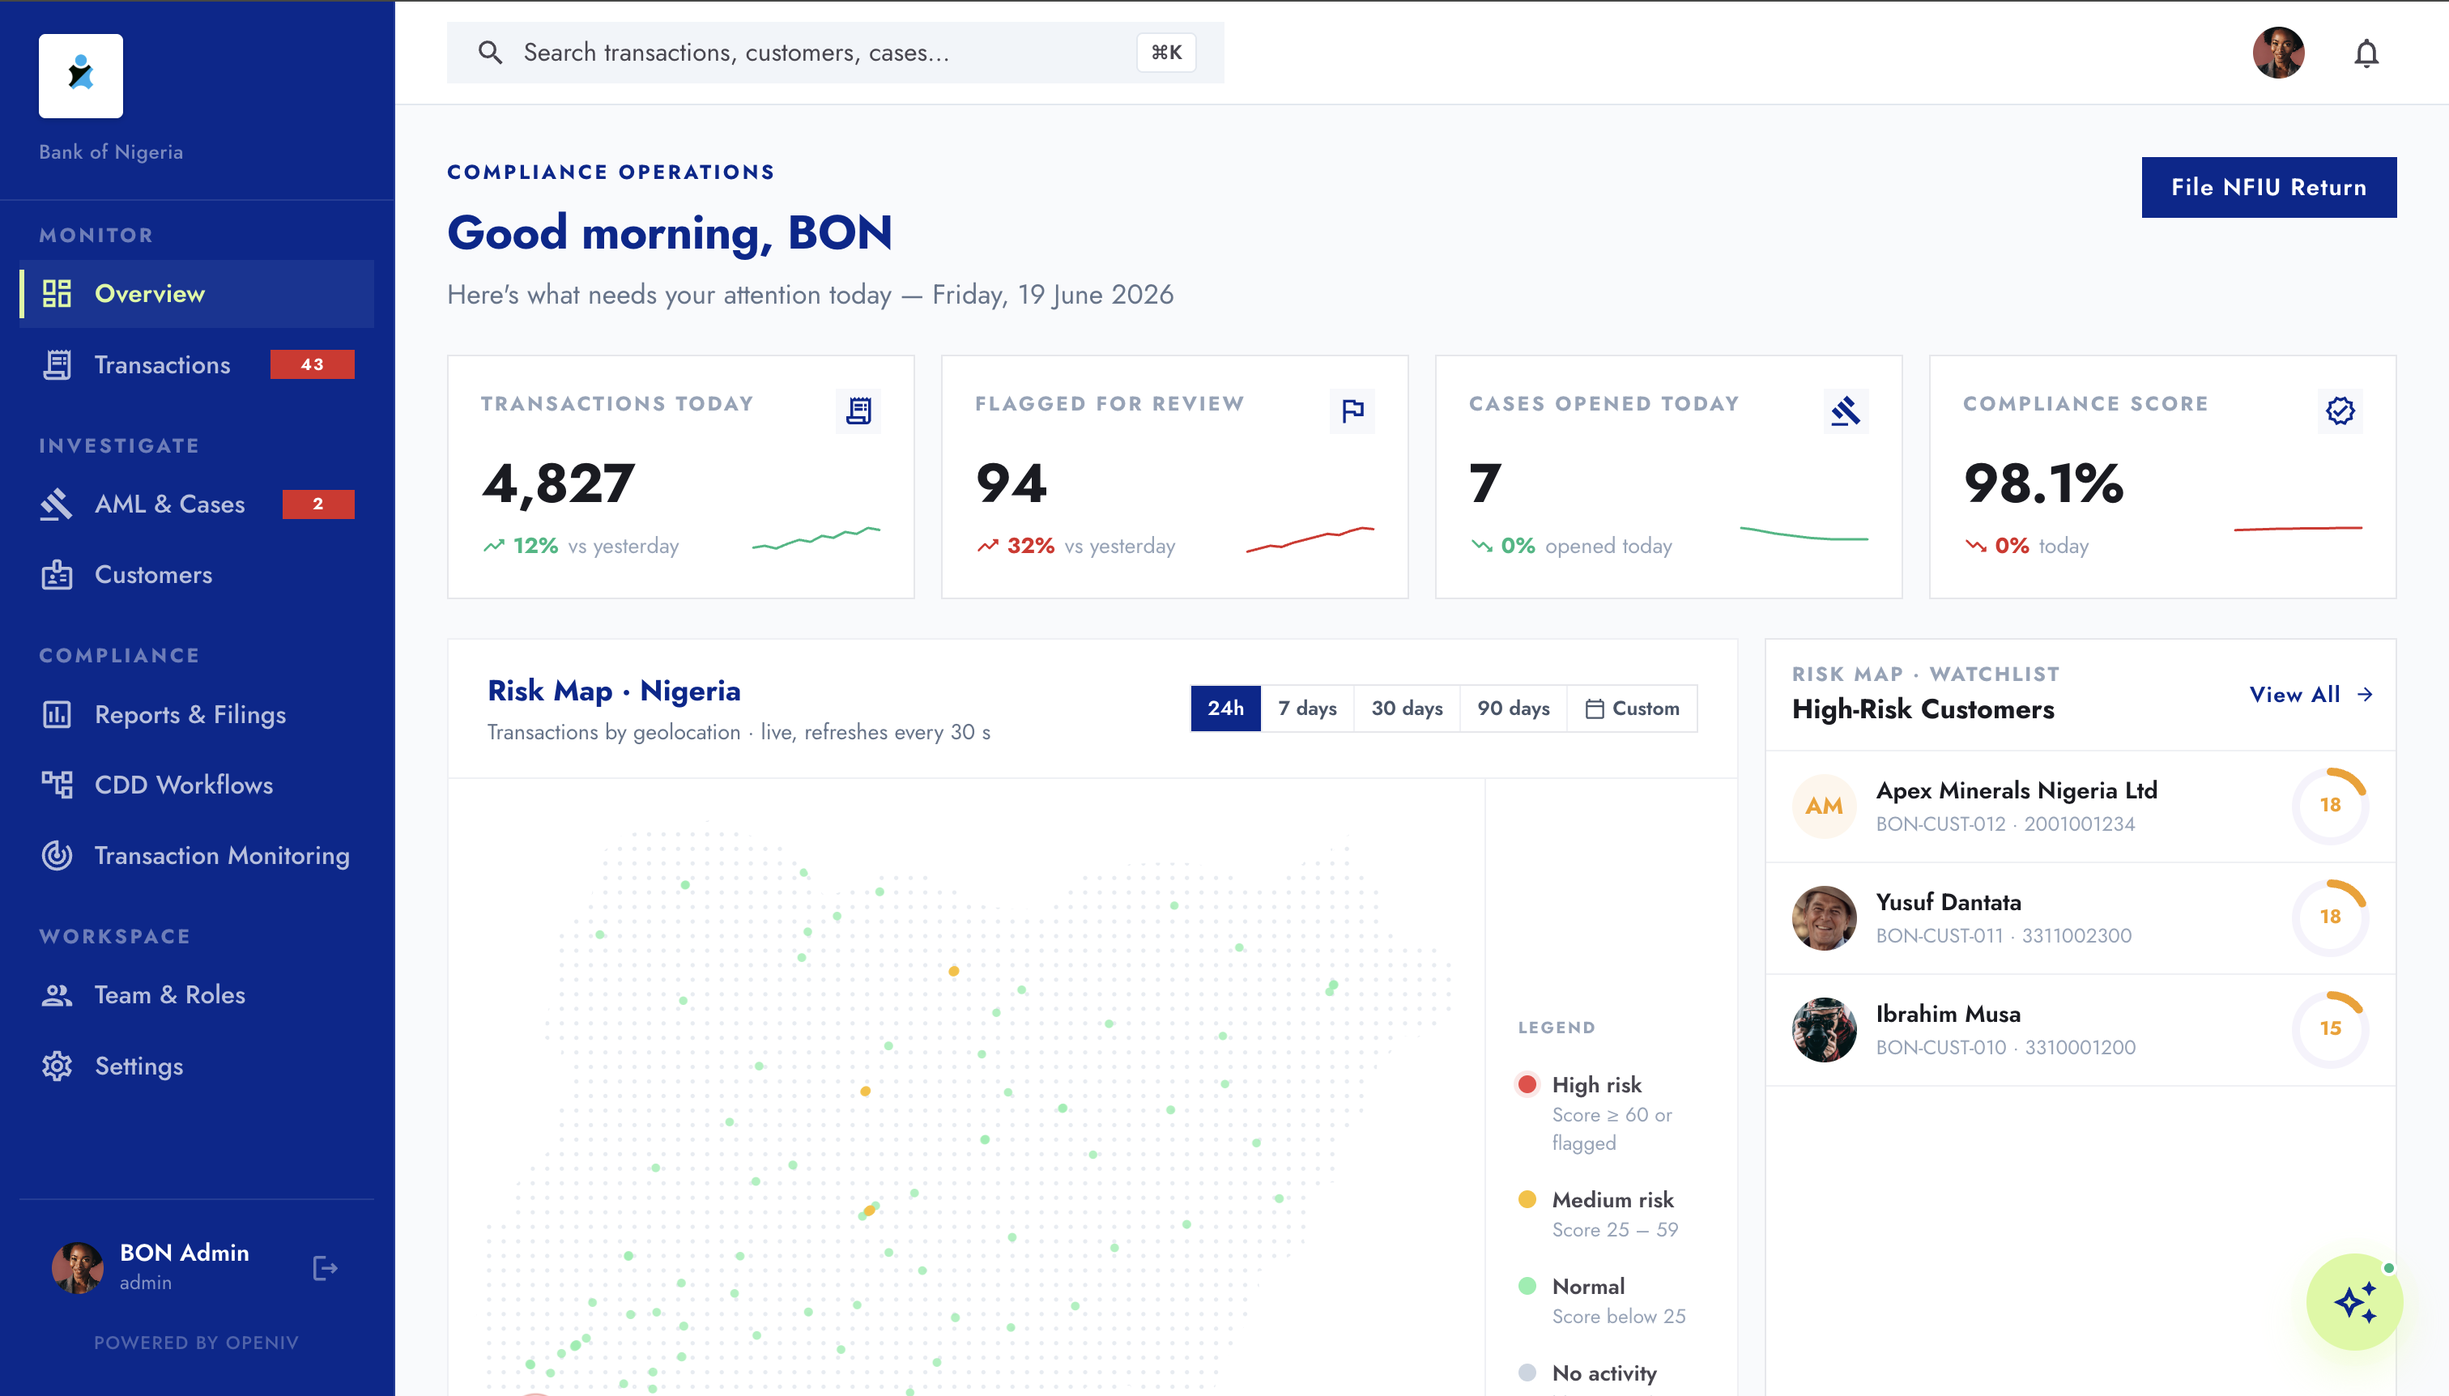
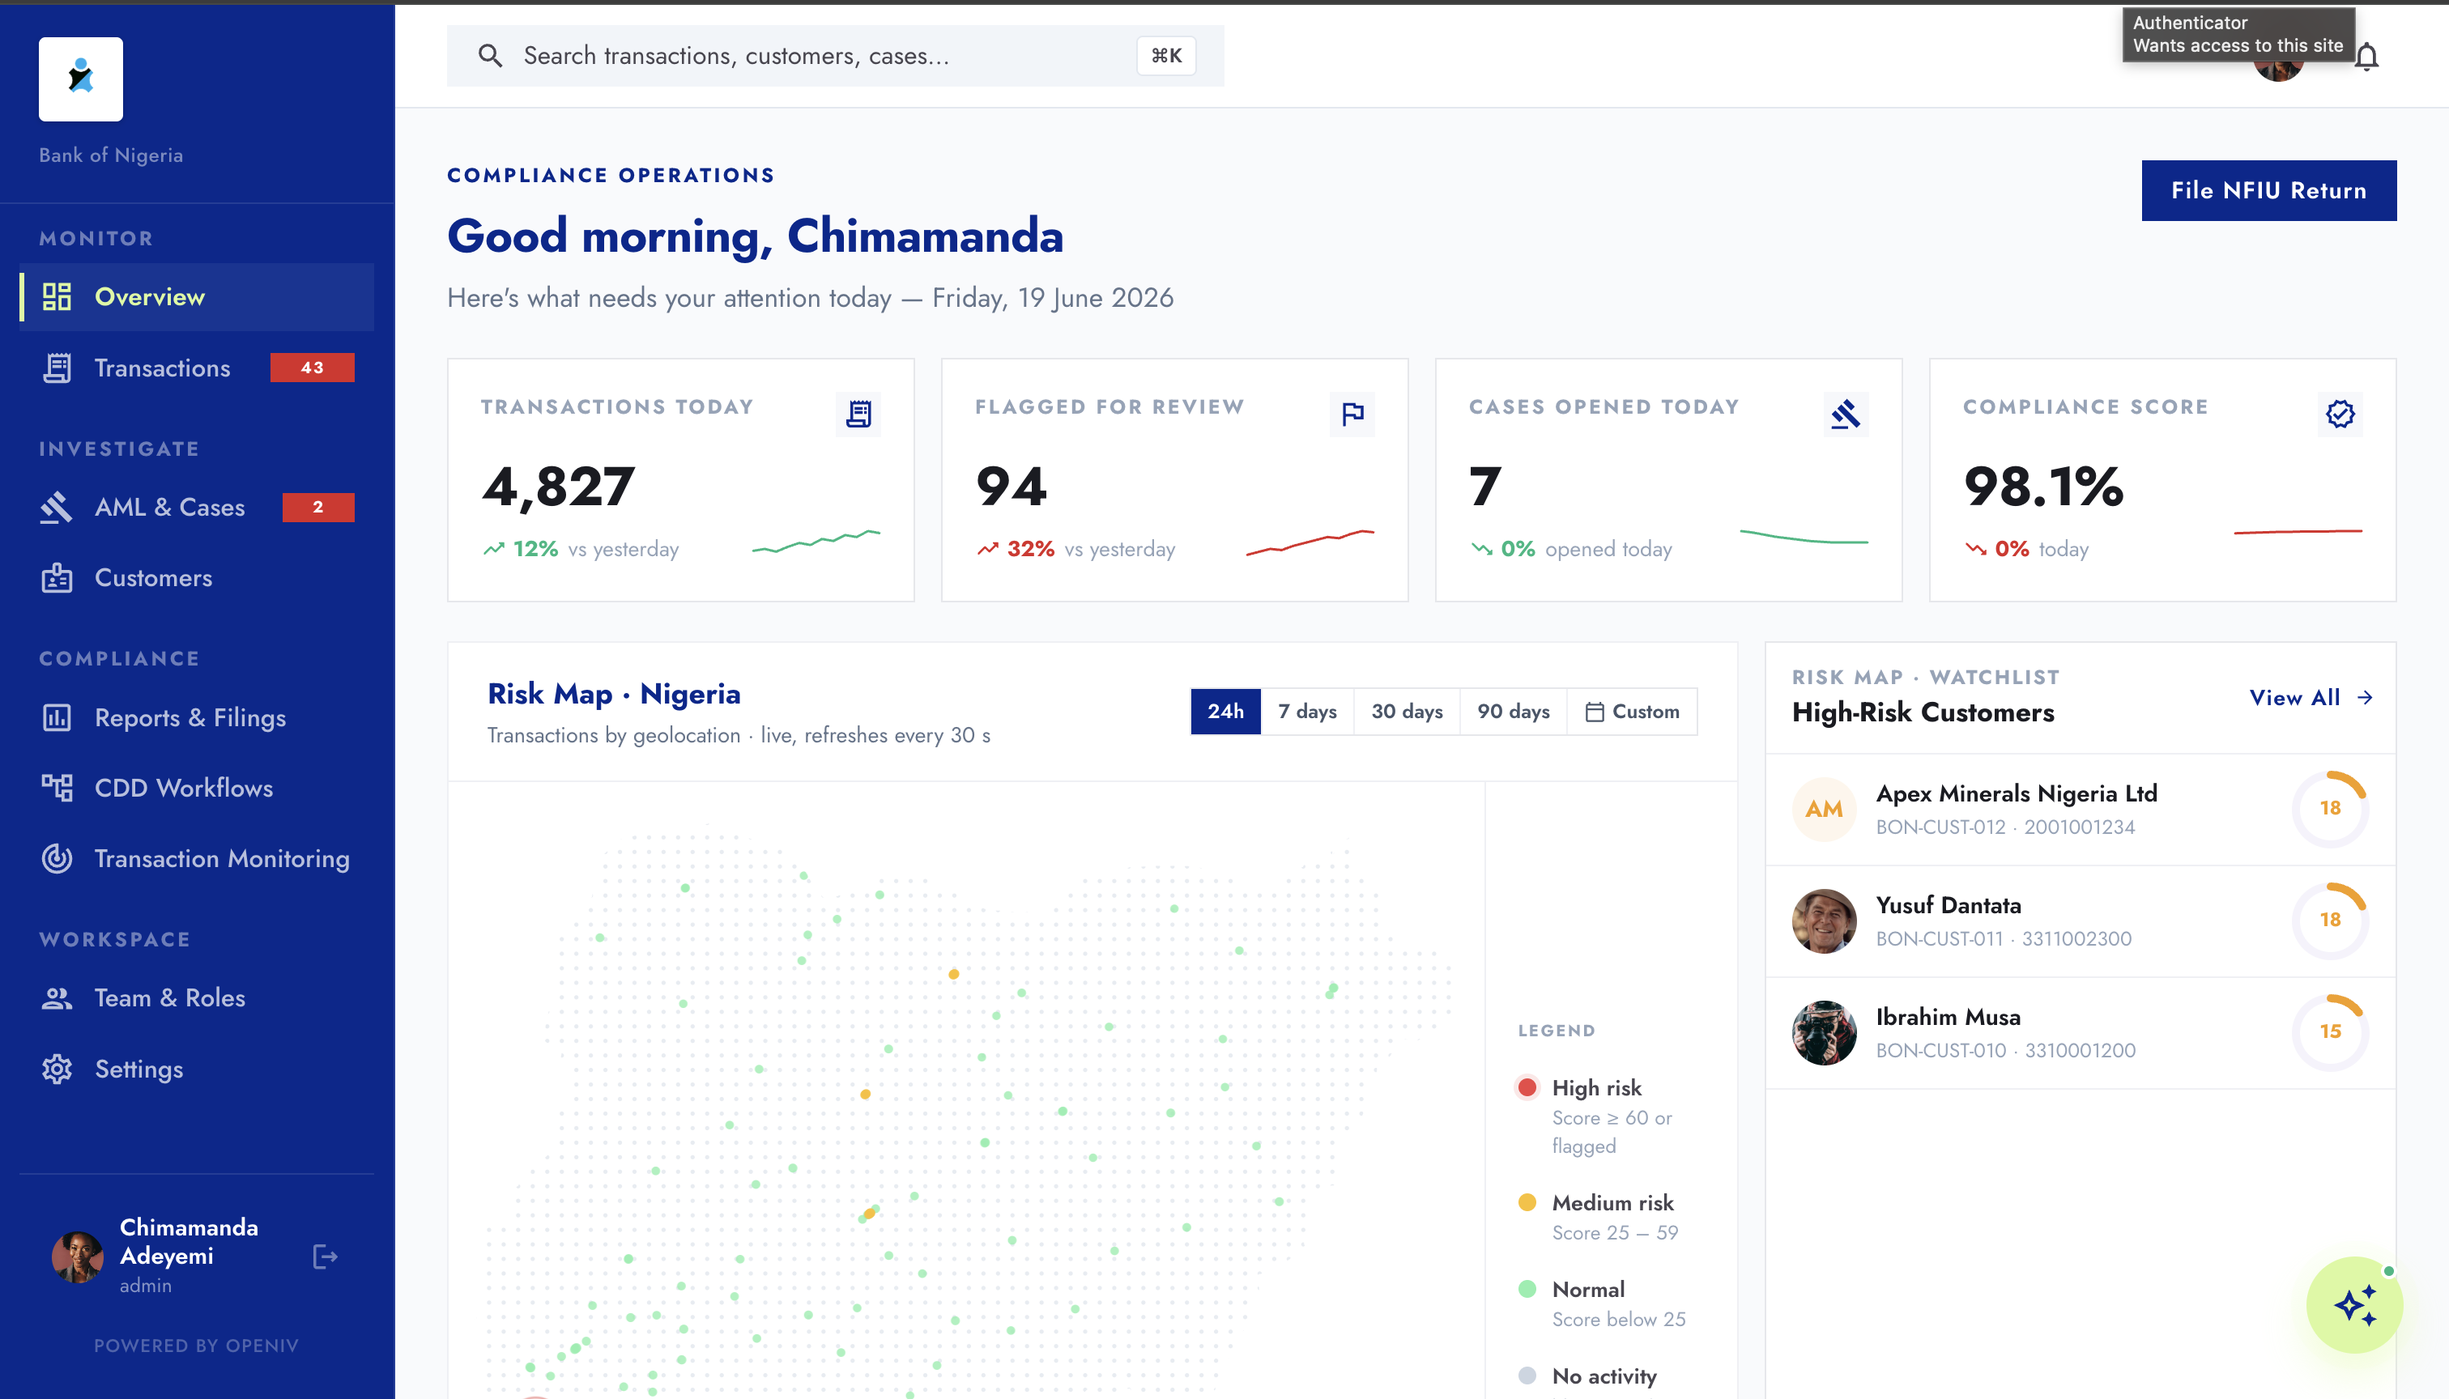
auth login modification

diff --git a/src/pages/auth/LoginPage.tsx b/src/pages/auth/LoginPage.tsx
@@ -16,6 +16,7 @@ import {
   getInviteEmail,
   getLoginAvatar,
   getLoginEmail,
+  getLoginName,
   hydrate,
   setLoginAvatar,
   setLoginEmail,
@@ -491,10 +492,17 @@ function BiometricPrompt({
   return (
     <Box sx={{ width: '100%' }}>
       {/* Institution logo / mark */}
-      <Box sx={{ display: 'flex', justifyContent: 'center', mb: 3 }}>
+      <Box sx={{ display: 'flex', flexDirection: 'column', alignItems: 'center', mb: 3, gap: 1 }}>
         {institutionLogoUrl ? (
-          <Box component="img" src={institutionLogoUrl} alt={institutionName ?? ''}
-            sx={{ height: 52, maxWidth: 180, objectFit: 'contain', display: 'block' }} />
+          <>
+            <Box component="img" src={institutionLogoUrl} alt={institutionName ?? ''}
+              sx={{ height: 52, maxWidth: 180, objectFit: 'contain', display: 'block' }} />
+            {institutionName && (
+              <Typography sx={{ fontFamily: 'Jost', fontWeight: 700, fontSize: '0.9375rem', color: 'var(--heading-color)', letterSpacing: '-0.01em' }}>
+                {institutionName}
+              </Typography>
+            )}
+          </>
         ) : (
           <Box sx={{ display: 'flex', alignItems: 'center', gap: 1.25 }}>
             <Box sx={{ width: 40, height: 40, bgcolor: colorPalette.primary,
@@ -518,14 +526,17 @@ function BiometricPrompt({
         <Box sx={{ width: 30, height: 30, borderRadius: '50%', bgcolor: colorPalette.primary,
           display: 'flex', alignItems: 'center', justifyContent: 'center', flexShrink: 0, overflow: 'hidden' }}>
           {avatarUrl
-            ? <Box component="img" src={avatarUrl} alt="" sx={{ width: '100%', height: '100%', objectFit: 'cover' }} />
+            ? <Box component="img" src={avatarUrl} alt=""
+                sx={{ width: '100%', height: '100%', objectFit: 'cover' }}
+                onError={(e) => { (e.currentTarget as HTMLImageElement).style.display = 'none' }}
+              />
             : <Typography sx={{ fontSize: '0.6875rem', fontWeight: 700, color: '#fff', lineHeight: 1 }}>
-                {(userName ?? email).slice(0, 2).toUpperCase()}
+                {(userName ?? email).split(' ').filter(Boolean).slice(0, 2).map((w: string) => w[0].toUpperCase()).join('')}
               </Typography>
           }
         </Box>
         <Typography sx={{ fontSize: '0.875rem', color: 'var(--on-surface-variant)',
-          fontFamily: 'Jost', fontWeight: 500, flex: 1, overflow: 'hidden',
+          fontFamily: 'Jost', fontWeight: 600, flex: 1, overflow: 'hidden',
           textOverflow: 'ellipsis', whiteSpace: 'nowrap' }}>
           {userName ?? email}
         </Typography>
@@ -602,18 +613,20 @@ export default function LoginPage() {
     hydrate().then(() => {
       setInviteCodeState(getInviteCode())
       setInviteEmailState(getInviteEmail())
-      // Read avatar after hydrate so encrypted cache is populated
+      // Read avatar + name after hydrate so encrypted cache is populated
       const av = getLoginAvatar(); if (av) setBioAvatarUrl(av)
+      const n  = getLoginName();   if (n)  setBioUserName(prev => prev ?? n)
     })
     // Check if this browser has a registered biometric for a known email
     if (webAuthnSupported()) {
       try {
         const raw = localStorage.getItem('openiv.bioHint')
         if (raw) {
-          const hint = JSON.parse(raw) as { email: string; userName?: string; institutionName?: string; institutionLogoUrl?: string }
+          const hint = JSON.parse(raw) as { email: string; userName?: string; avatarUrl?: string; institutionName?: string; institutionLogoUrl?: string }
           if (hint.email) {
             setBioEmail(hint.email)
             setBioUserName(hint.userName ?? null)
+            if (hint.avatarUrl) setBioAvatarUrl(hint.avatarUrl)
             setBioInstitutionName(hint.institutionName ?? null)
             setBioInstitutionLogo(hint.institutionLogoUrl ?? null)
           }
@@ -628,6 +641,8 @@ export default function LoginPage() {
     authApi.institutionHint(bioEmail).then(hint => {
       if (hint.institutionName)    setBioInstitutionName(hint.institutionName)
       if (hint.institutionLogoUrl) setBioInstitutionLogo(hint.institutionLogoUrl)
+      if (hint.displayName)        setBioUserName(hint.displayName)
+      if (hint.avatarUrl)          setBioAvatarUrl(hint.avatarUrl)
     }).catch(() => { /* silently ignore — cached values still show */ })
   }, [bioEmail])
 
@@ -735,8 +750,9 @@ export default function LoginPage() {
         localStorage.setItem('openiv.bioHint', JSON.stringify({
           ...existing,
           email,
-          userName: fullName ?? existing.userName ?? null,
-          institutionName: institutionName ?? existing.institutionName ?? null,
+          userName:           fullName         ?? existing.userName           ?? null,
+          avatarUrl:          avatarUrl         ?? existing.avatarUrl          ?? null,
+          institutionName:    institutionName   ?? existing.institutionName    ?? null,
           institutionLogoUrl: institutionLogoUrl ?? existing.institutionLogoUrl ?? null,
         }))
       } catch { /* ignore */ }

diff --git a/src/pages/dashboard/ProfilePage.tsx b/src/pages/dashboard/ProfilePage.tsx
@@ -4,6 +4,7 @@ import { useState, useRef } from 'react'
 import { useProfile } from '@/contexts/ProfileContext'
 import { profileApi } from '@/api/profile'
 import { resolveMediaUrl } from '@/api/client'
+import { setLoginAvatar, setLoginName } from '@/onboarding/state'
 import VisibilityOutlinedIcon from '@mui/icons-material/VisibilityOutlined'
 import VisibilityOffOutlinedIcon from '@mui/icons-material/VisibilityOffOutlined'
 import CameraAltOutlinedIcon from '@mui/icons-material/CameraAltOutlined'
@@ -94,7 +95,7 @@ function MetaItem({ icon, label, value }: { icon: React.ReactNode; label: string
 }
 
 export default function ProfilePage() {
-  const { profile, refreshProfile } = useProfile()
+  const { profile, refreshProfile, updateProfile } = useProfile()
   const fileInputRef = useRef<HTMLInputElement>(null)
 
   // ── Personal info ─────────────────────────────────────────────────────────
@@ -110,6 +111,7 @@ export default function ProfilePage() {
     setInfoSaving(true); setInfoMsg(null)
     try {
       await profileApi.update({ fullName: fullName.trim() || undefined, jobTitle: jobTitle.trim() || undefined })
+      if (fullName.trim()) await setLoginName(fullName.trim())
       refreshProfile()
       setInfoMsg({ ok: true, text: 'Profile updated successfully.' })
     } catch {
@@ -132,7 +134,18 @@ export default function ProfilePage() {
     const preview = URL.createObjectURL(file)
     setLocalAvatarUrl(preview)
     try {
-      await profileApi.uploadAvatar(file)
+      const result = await profileApi.uploadAvatar(file)
+      updateProfile({ avatarUrl: result.avatarUrl })
+      setLocalAvatarUrl(result.avatarUrl)
+      // Keep login cache in sync so the biometric login page shows the new photo
+      await setLoginAvatar(result.avatarUrl)
+      try {
+        const raw = localStorage.getItem('openiv.bioHint')
+        if (raw) {
+          const hint = JSON.parse(raw)
+          localStorage.setItem('openiv.bioHint', JSON.stringify({ ...hint, avatarUrl: result.avatarUrl }))
+        }
+      } catch { /* ignore */ }
       refreshProfile()
     } catch (err) {
       setAvatarError((err as Error).message ?? 'Upload failed.')

diff --git a/src/components/dashboard/Sidebar.tsx b/src/components/dashboard/Sidebar.tsx
@@ -442,13 +442,15 @@ export default function Sidebar() {
           }}
         >
           <Box sx={{ width: 32, height: 32, borderRadius: '50%', overflow: 'hidden', flexShrink: 0 }}>
-            {resolveMediaUrl(profile?.avatarUrl) ? (
-              <Box component="img" src={resolveMediaUrl(profile?.avatarUrl)!} alt={profile?.fullName ?? ''} sx={{ width: '100%', height: '100%', objectFit: 'cover' }} />
-            ) : (
-              <Box sx={{ width: '100%', height: '100%', bgcolor: '#d9f99d', color: 'var(--heading-color)', display: 'flex', alignItems: 'center', justifyContent: 'center', fontSize: '0.8125rem', fontWeight: 700, fontFamily: 'Jost' }}>
-                {getInitials(profile?.fullName, profile?.email)}
-              </Box>
+            {resolveMediaUrl(profile?.avatarUrl) && (
+              <Box component="img" src={resolveMediaUrl(profile?.avatarUrl)!} alt={profile?.fullName ?? ''}
+                sx={{ width: '100%', height: '100%', objectFit: 'cover' }}
+                onError={(e) => { (e.currentTarget as HTMLImageElement).style.display = 'none'; (e.currentTarget.nextSibling as HTMLElement | null)?.style.setProperty('display', 'flex') }}
+              />
             )}
+            <Box sx={{ width: '100%', height: '100%', bgcolor: '#d9f99d', color: 'var(--heading-color)', display: resolveMediaUrl(profile?.avatarUrl) ? 'none' : 'flex', alignItems: 'center', justifyContent: 'center', fontSize: '0.8125rem', fontWeight: 700, fontFamily: 'Jost' }}>
+              {getInitials(profile?.fullName, profile?.email)}
+            </Box>
           </Box>
           <Box sx={{ flex: 1, minWidth: 0 }}>
             <Typography sx={{ fontSize: '0.8125rem', fontWeight: 600, color: '#ffffff', lineHeight: 1.2 }}>

diff --git a/src/contexts/ProfileContext.tsx b/src/contexts/ProfileContext.tsx
@@ -1,4 +1,4 @@
-import { createContext, useContext, useEffect, useState } from 'react'
+import { createContext, useCallback, useContext, useEffect, useState } from 'react'
 import type { ReactNode } from 'react'
 import { profileApi } from '@/api/profile'
 import type { UserProfile } from '@/api/profile'
@@ -6,20 +6,33 @@ import type { UserProfile } from '@/api/profile'
 interface ProfileContextValue {
   profile: UserProfile | null
   refreshProfile: () => void
+  updateProfile: (partial: Partial<UserProfile>) => void
 }
 
-const ProfileContext = createContext<ProfileContextValue>({ profile: null, refreshProfile: () => {} })
+const ProfileContext = createContext<ProfileContextValue>({
+  profile: null,
+  refreshProfile: () => {},
+  updateProfile: () => {},
+})
 
 export function ProfileProvider({ children }: { children: ReactNode }) {
   const [profile, setProfile] = useState<UserProfile | null>(null)
 
-  const refreshProfile = () => {
+  const refreshProfile = useCallback(() => {
     profileApi.get().then(setProfile).catch(() => {})
-  }
+  }, [])
 
-  useEffect(() => { refreshProfile() }, [])
+  const updateProfile = useCallback((partial: Partial<UserProfile>) => {
+    setProfile(prev => prev ? { ...prev, ...partial } : prev)
+  }, [])
 
-  return <ProfileContext.Provider value={{ profile, refreshProfile }}>{children}</ProfileContext.Provider>
+  useEffect(() => { refreshProfile() }, [refreshProfile])
+
+  return (
+    <ProfileContext.Provider value={{ profile, refreshProfile, updateProfile }}>
+      {children}
+    </ProfileContext.Provider>
+  )
 }
 
 export const useProfile = () => useContext(ProfileContext)

diff --git a/src/components/dashboard/Topbar.tsx b/src/components/dashboard/Topbar.tsx
@@ -239,17 +239,18 @@ export default function Topbar(_props?: Record<string, unknown>) {
               src={resolveMediaUrl((profile as { avatarUrl?: string }).avatarUrl)!}
               alt={profile?.fullName ?? 'Avatar'}
               sx={{ width: '100%', height: '100%', objectFit: 'cover' }}
+              onError={(e) => { (e.currentTarget as HTMLImageElement).style.display = 'none'; (e.currentTarget.nextSibling as HTMLElement | null)?.style.setProperty('display', 'flex') }}
             />
-          ) : (
-            <Box sx={{
-              width: '100%', height: '100%',
-              bgcolor: colorPalette.primary, color: '#ffffff',
-              display: 'flex', alignItems: 'center', justifyContent: 'center',
-              fontSize: '0.75rem', fontWeight: 700, fontFamily: 'Jost',
-            }}>
-              {initials}
-            </Box>
-          )}
+          ) : null}
+          <Box sx={{
+            width: '100%', height: '100%',
+            bgcolor: colorPalette.primary, color: '#ffffff',
+            display: resolveMediaUrl((profile as { avatarUrl?: string } | null)?.avatarUrl) ? 'none' : 'flex',
+            alignItems: 'center', justifyContent: 'center',
+            fontSize: '0.75rem', fontWeight: 700, fontFamily: 'Jost',
+          }}>
+            {initials}
+          </Box>
         </Box>
       </IconButton>
 

diff --git a/src/pages/dashboard/TransactionsPage.tsx b/src/pages/dashboard/TransactionsPage.tsx
@@ -221,12 +221,6 @@ export default function TransactionsPage() {
           </Box>
           <Stack direction="row" gap={1.25}>
             <Button
-              onClick={() => setImportOpen(true)}
-              sx={{ bgcolor: colorPalette.primary, color: '#ffffff', px: 2.25, py: 1.125, fontSize: '0.8125rem', fontWeight: 600, fontFamily: 'Jost', borderRadius: 0, textTransform: 'none', '&:hover': { bgcolor: colorPalette.primary, opacity: 0.9 } }}
-            >
-              Import Transactions
-            </Button>
-            <Button
               onClick={handleExport}
               disabled={exporting}
               startIcon={<FileDownloadOutlinedIcon sx={{ fontSize: '1rem !important' }} />}

diff --git a/src/api/auth.ts b/src/api/auth.ts
@@ -62,6 +62,8 @@ export interface SessionConflictError {
 export interface InstitutionHintResponse {
   institutionName?: string | null
   institutionLogoUrl?: string | null
+  displayName?: string | null
+  avatarUrl?: string | null
 }
 
 export const authApi = {
